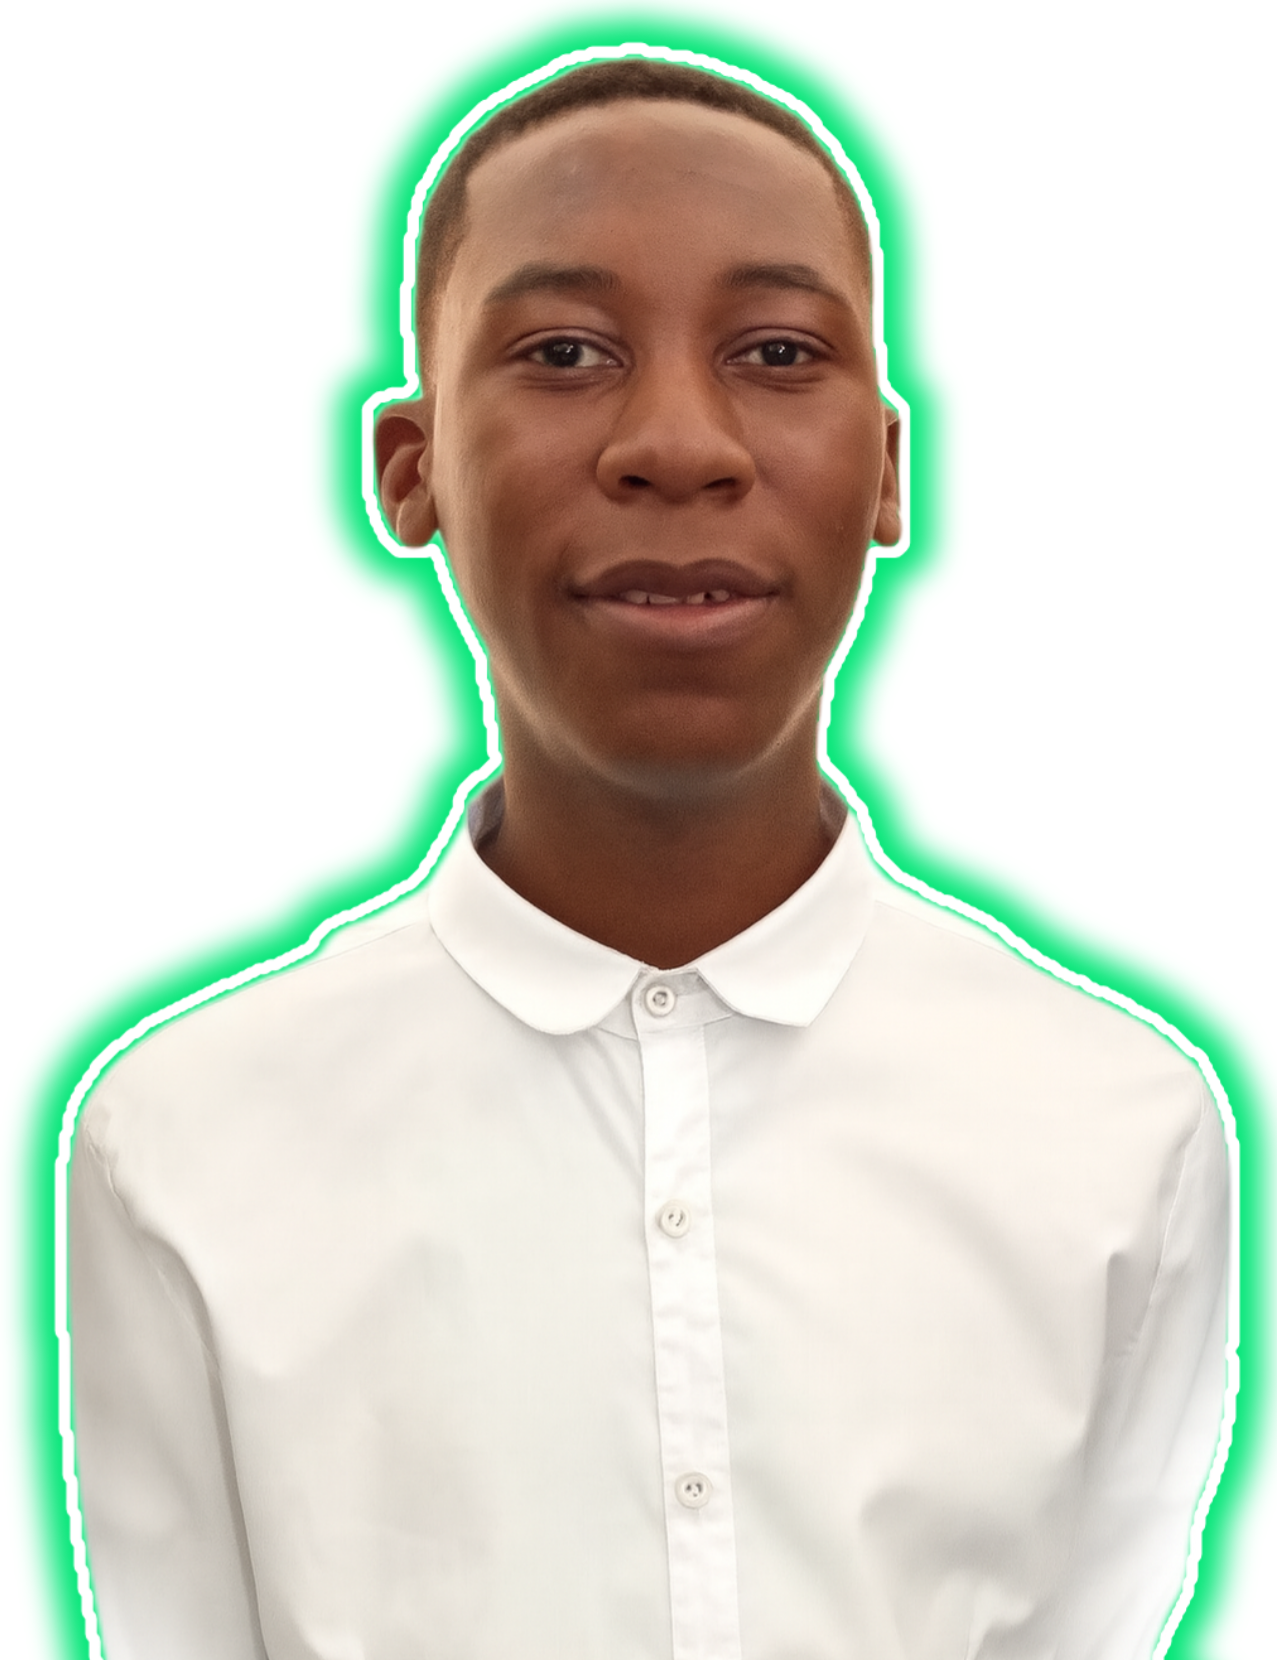
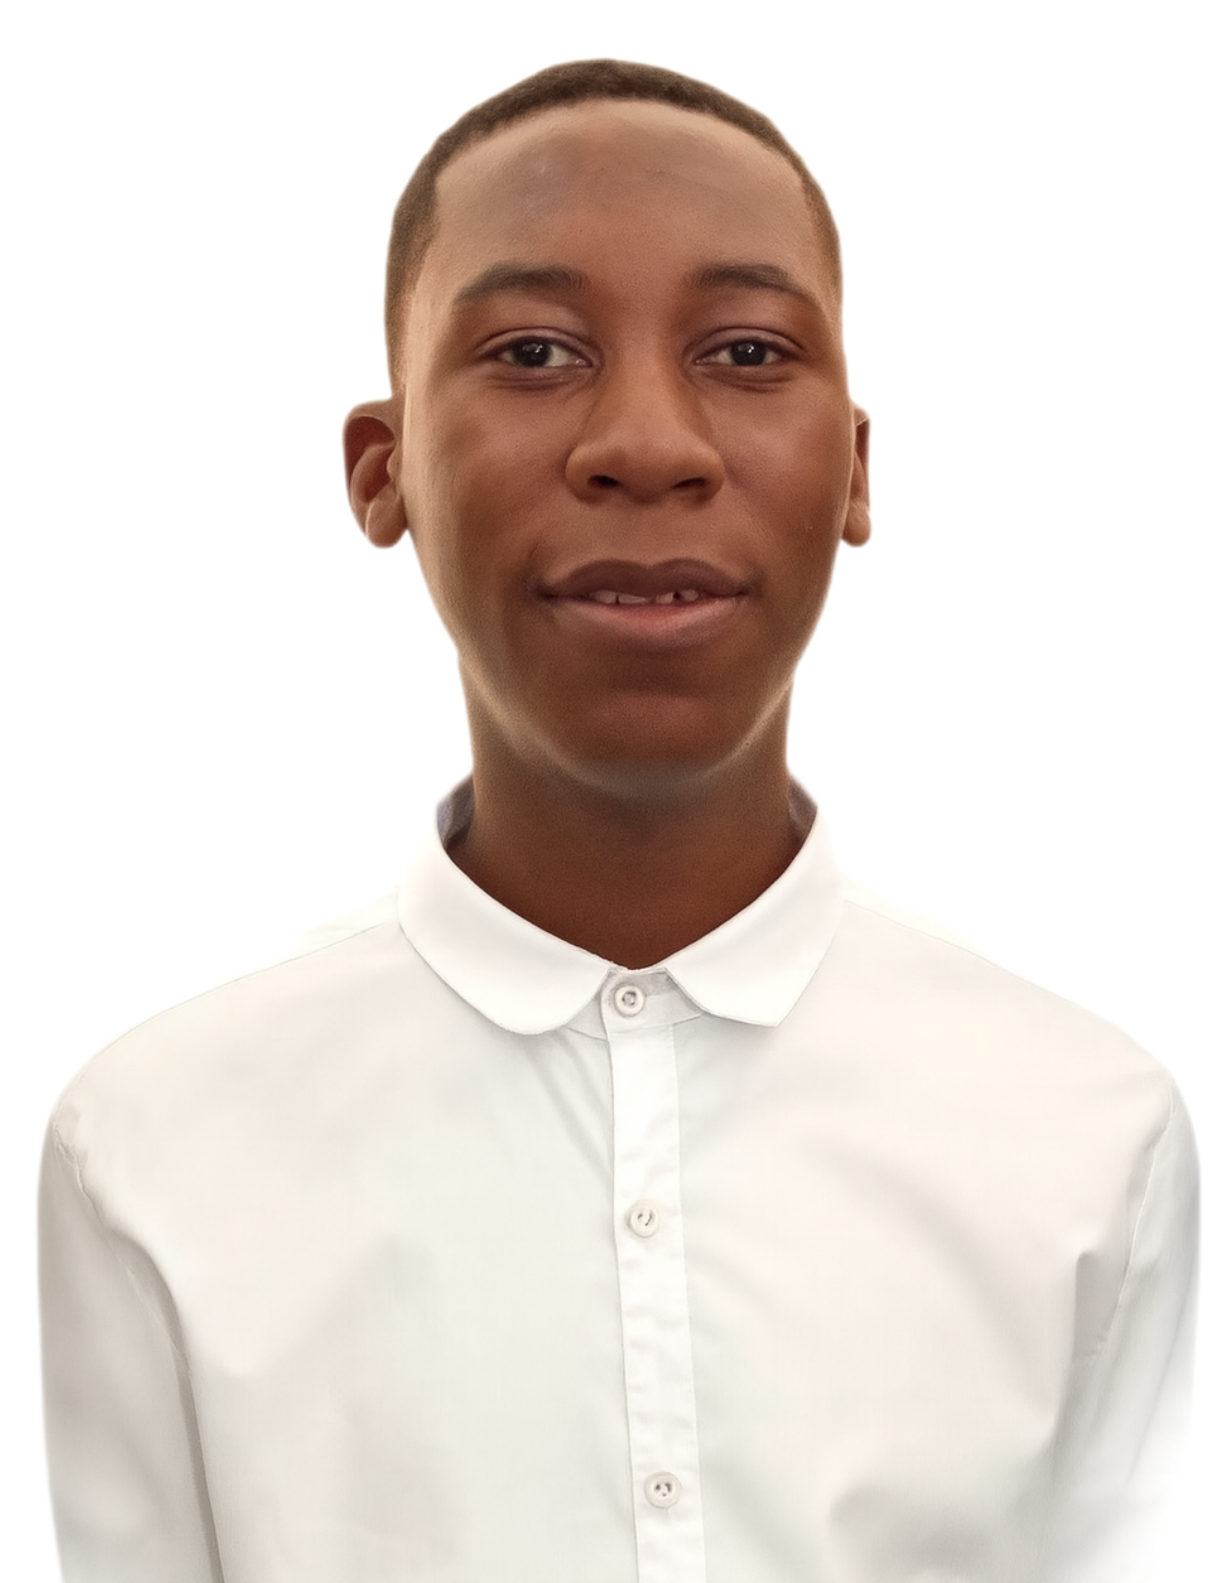
Mudei o design todo do sistema, eliminei a foto que estava na sessão top e passei a exibir a foto da sessão sobre para mobile. Enfim esta versão já dá para divulgar

Changed region(s): [[0.0, 0.0, 1.0, 1.0], [0.4935, 0.8667, 0.5552, 0.9596]]

diff --git a/estilos/index.css b/estilos/index.css
@@ -207,24 +207,26 @@ header nav button.ativar span.linha:nth-child(3){
 main > h1 {
     color: #fff;
     text-align: center;
-    margin: 20px 0;
+    margin: 10px 0;
     font-size: 40px;
     font-family: f2;
 }
 @media (max-width: 600px) {
     main > h1 {
-    font-size: 30px;
-}
+        font-size: 30px;
+    }
 }
 /* Inicio da section top  */
 main section#top{
-    height: 100vh;
+    height: 98vh;
     min-height: 500px;
-    max-height: 900px;
+    max-height: 1000px;
     width: 100%;
+    margin: auto;
     display: flex;
-    align-items: center;
-    justify-content: space-around;
+    align-items: flex-start;
+    justify-content: flex-start;
+    padding: 5px 5%;
 }
 main section#top div.texto{
     display: flex;
@@ -232,8 +234,8 @@ main section#top div.texto{
     align-items: start;
     flex-direction: column;
     height: 100%;
-    width: 55%;
-    padding: 4%;
+    width: 60%;
+    padding: 2%;
 }
 
 main section#top div.texto strong{
@@ -277,46 +279,22 @@ main section#top div.texto a:hover {
     color: #fff;
 }
 
-main section#top div.foto {
-    width: 30%;
-    display: flex;
-    justify-content: center;
-    align-items: center;
-    border-radius: 10px;
-    overflow: hidden;
-    padding: 8px;
-}
-
-main section#top div.foto img {
-    width: 100%;
-    height: 100%;
-    border-radius: 10px;
-    /*
-    animation: imagemFlutoante 2.5s ease-in-out infinite alternate forwards;
-    */
-}
-
 @media screen and (max-width: 850px) {
     main section#top {
         height: auto;
-        padding-top: 80px;
+        padding: 200px 2%;
         flex-wrap: wrap;
         gap: 5px;
     }
-    main section#top div.texto {
+    main section#top div.texto{
         width: 100%;
+        padding: 2%;
     }
-    
-    main section#top div.foto {
-        width: 90%;
-        max-width: 300px;
-        height: 300px;
-    } 
 }
 
 @media (max-width: 750px) {
     main section#top {
-        margin: 0;
+        padding: 50px 1%;
     }
     main section#top div.texto {
         padding: 25% 5% 5% 5%;
@@ -339,14 +317,14 @@ main section#top div.foto img {
         animation: letras 1s ease-in-out forwards;
     }
 }
+
 /* fim da section top  */
 
 /* Inicio da section sobre  */
 main section#sobre{
     display: flex;
     gap: 10px;
-    justify-content: space-around;
-    padding: 20px 0;
+    justify-content: space-evenly;
 }
 main section#sobre div.foto {
     width: 310px;
@@ -416,21 +394,20 @@ main section#sobre div.texto a:hover {
     main section#sobre {
         height: auto;
         flex-direction: column;
-        padding: 10% 5% 0 5%;
+        padding: 0 5% 0 5%;
         gap: 5px;
     }
     main section#sobre div.foto {
-        display: none;
+        margin: auto;
     }
     main section#sobre div.texto {
         width: 100%;
     }
-    
 }
 
 @media (max-width: 750px) {
     main section#sobre div.texto {
-        padding: 25% 5% 5% 5%;
+        padding: 5% 5% 5% 5%;
     }
     main section#sobre div.texto h1{
         font-size: 35px;
@@ -445,11 +422,13 @@ main section#sobre div.texto a:hover {
         font-size: 17px;
     }
 }
+
 @media (min-width: 800px) {
     main section#sobre.revela div.texto h1 {
         animation: letras 1s ease-in-out forwards;
     }
 }
+
 /* fim da section Sobre  */
 
 /* Inicio da section projectos */
@@ -524,7 +503,7 @@ main section#projectos div.container div.projecto div.texto ul li {
 main section#projectos div.container div.projecto div.texto a.btn {
     color: #fff;
     font-size: 18px;
-    background-color: var(--cor8);
+    background-color: var(--cor2);
     display: block;
     text-align: center;
     padding: 10px;
@@ -615,7 +594,7 @@ section#contactos form button {
     cursor: pointer;
 }
 section#contactos form button:hover {
-    background-color: var(--cor2);
+    background-color: var(--cor8);
 }
 @media screen and (max-width: 800px) {
     section#contactos div.texto {

diff --git a/index.html b/index.html
@@ -41,9 +41,6 @@
             <p>Eu sou um jovem apaixonado por tecnologia,  e meu foco é transformar ideias em soluções digitais inovadoras</p>
             <a href="#sobre" >Ver Sobre </a>
         </div>
-        <div class="foto">
-            <img src="imagens/perfil/person1.jpg" alt="">
-        </div>
     </section> <!-- fim da section top -->
     <h1>Um pouco mais sobre mim</h1>
     <section id="sobre" >
